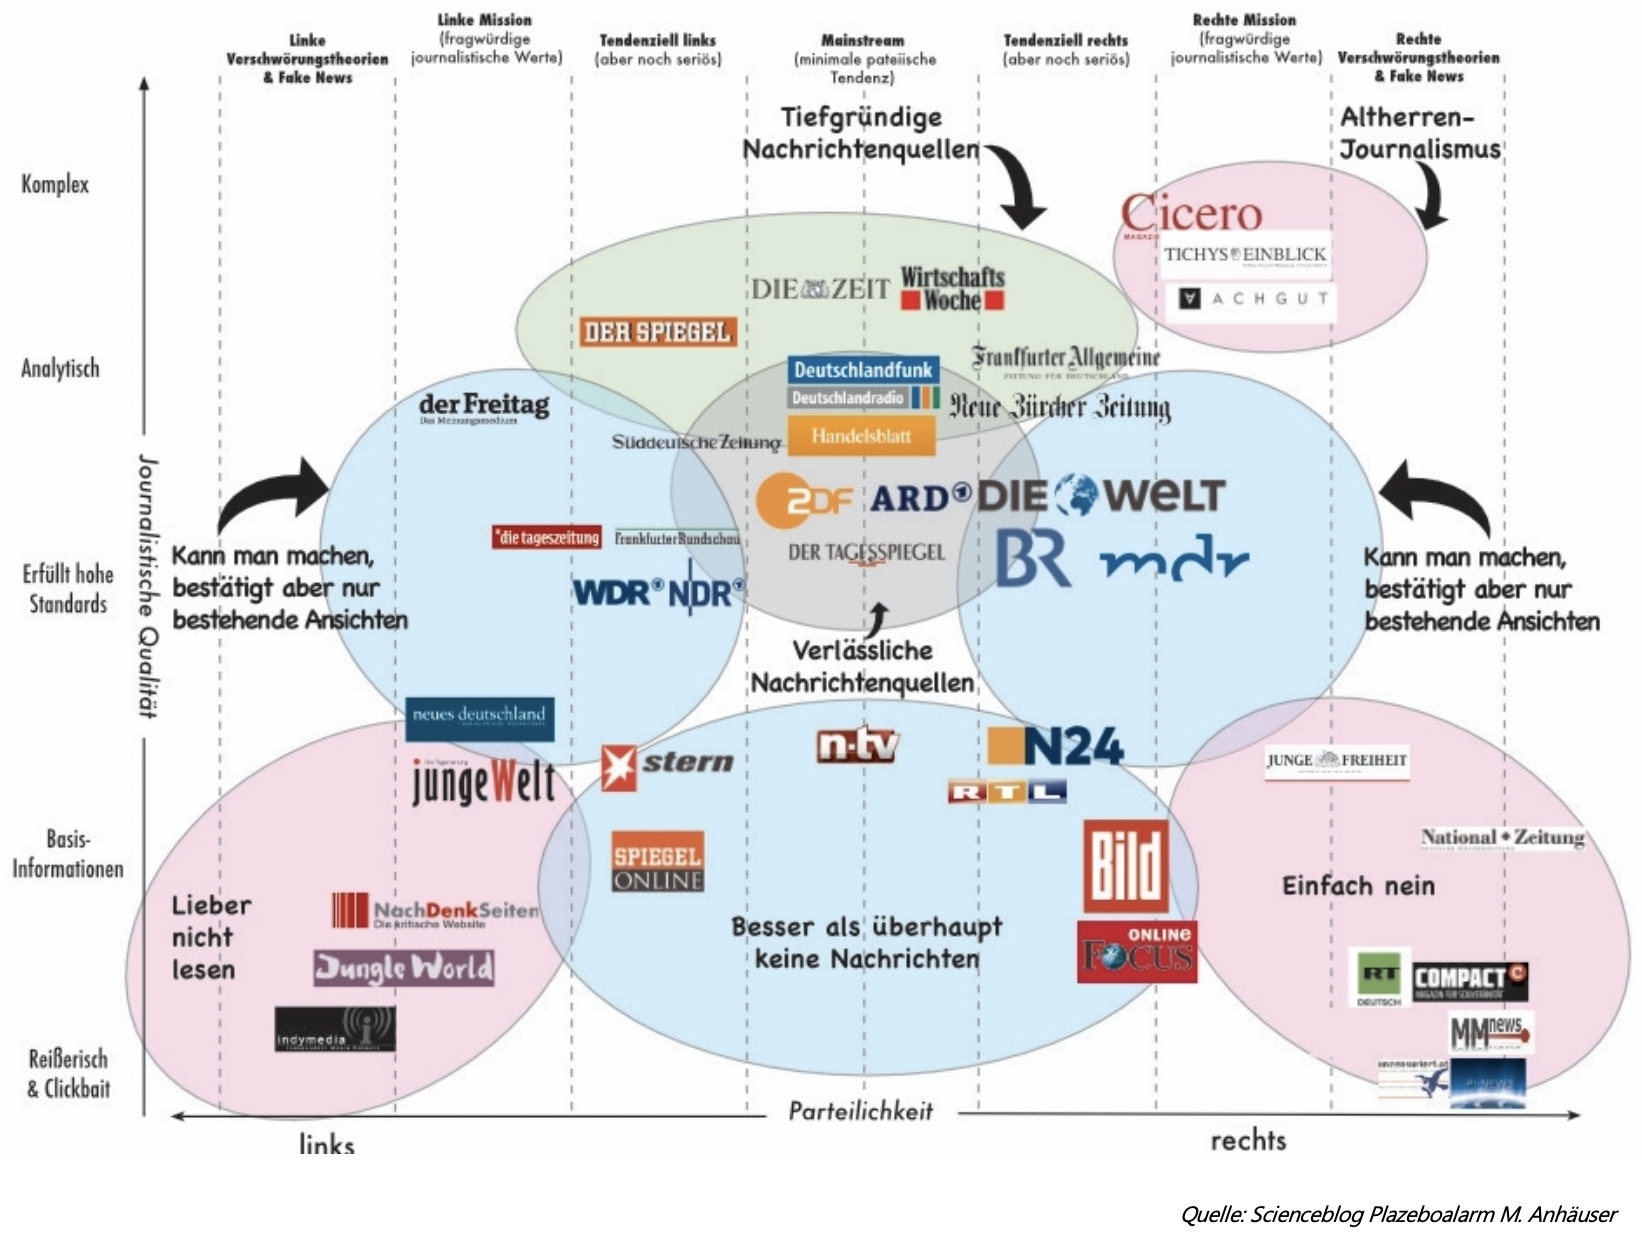
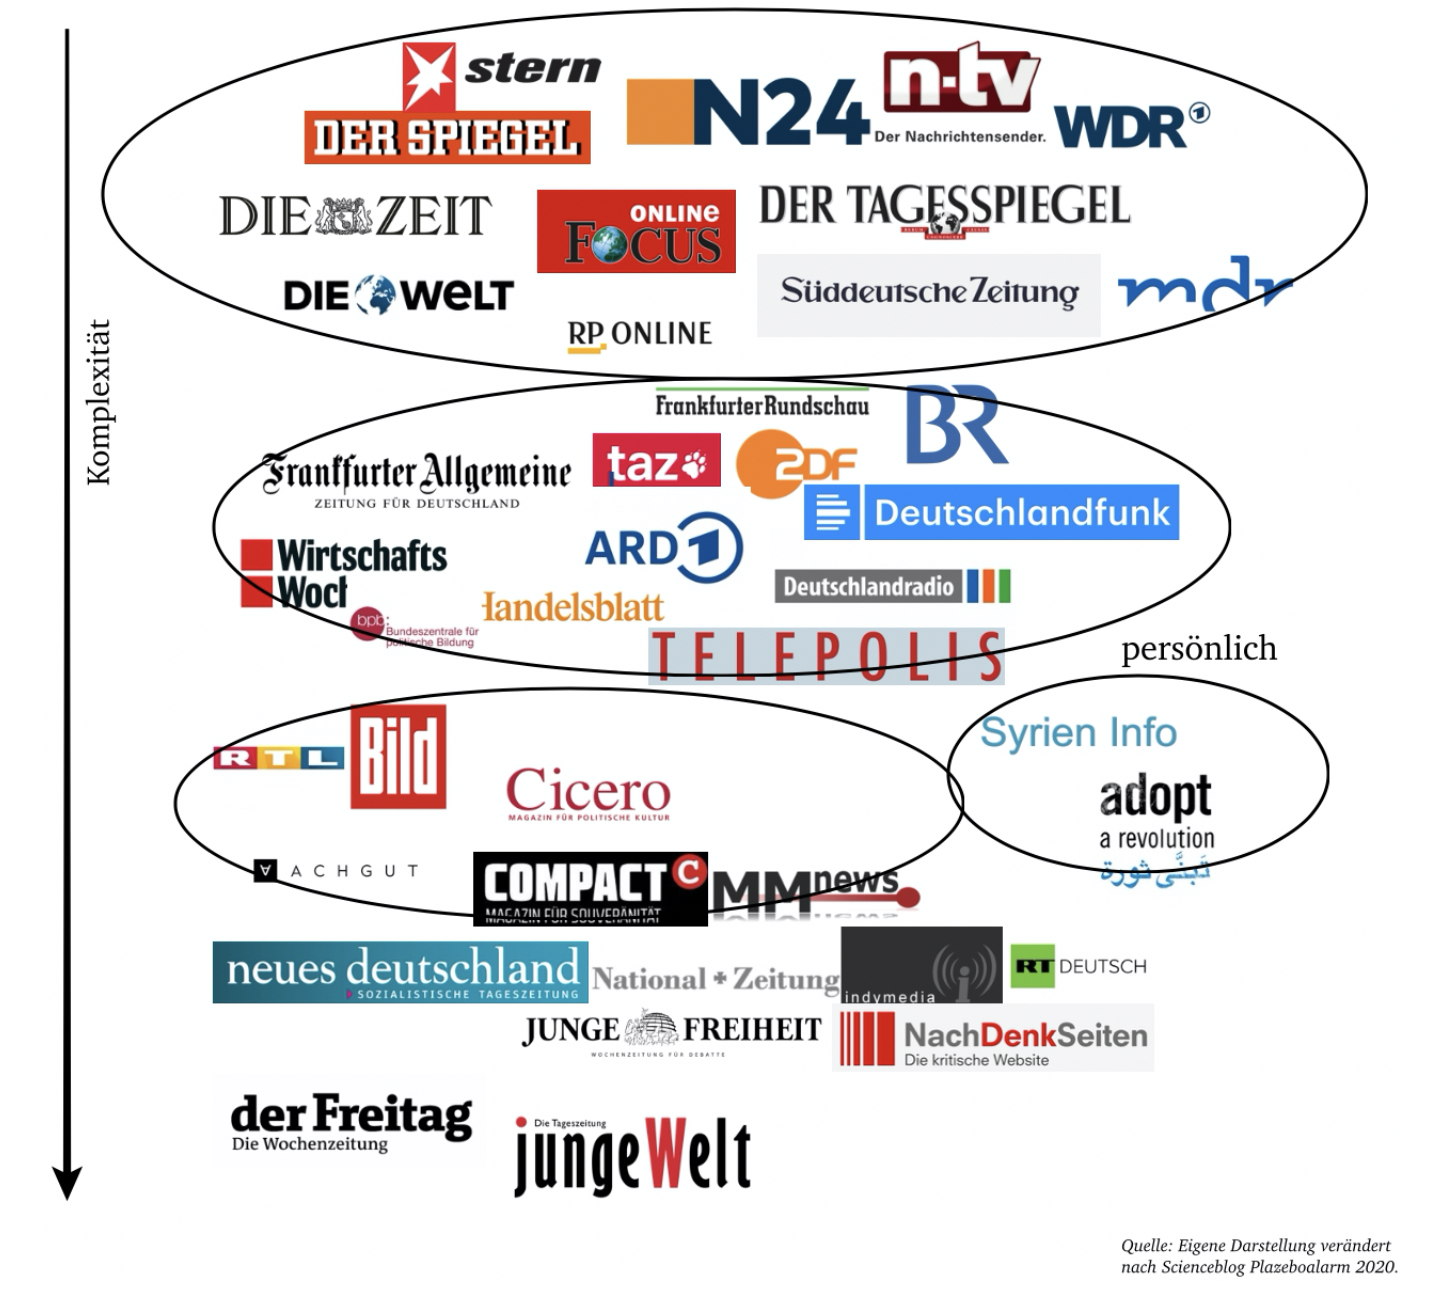
new commit

diff --git a/index.html b/index.html
@@ -115,9 +115,9 @@
             <div class="card-body">
               <h5 class="card-title">Map of Conflict Data</h5>
 
-              <p class="card-text">Die <i>Map of Conflict Data</i> visualisiert die Daten zu den Kriegshandlungen auf
+              <p class="card-text">Die <i>Map of Conflict Data</i> visualisiert die <br>Daten zu den Kriegshandlungen auf
                 syrischem
-                Territorium von 2012 bis 2018. Aus der Karte kann die Anzahl der Toten entnommen werden.
+                Territorium von 2011 bis 2018. Aus der Karte kann die Anzahl der Toten entnommen werden.
               </p>
               <div class="d-flex justify-content-between align-items-center">
                 <div class="btn-group">
@@ -140,7 +140,7 @@
               <h5 class="card-title">Map of Migration Density</h5>
 
               <p class="card-text">Die <i>Map of Migration Density</i> visualisiert die Daten zu den aufgenommenen
-                Flüchtlingen je ... Einwohner für jedes Land.</p>
+                Flüchtlingen je 10000 Einwohner für EU- und EFTA-Staaten sowie den Anrainerstaaten von 2011 bis 2018.</p>
               <div class="d-flex justify-content-between align-items-center">
                 <div class="btn-group">
                   <a href="../Slider/slider.html"><button type="button"
@@ -728,7 +728,7 @@
 
   <div class="site-section">
     <div class="container">
-      <h2 id="daten" tabindex='-1' class="mb-4">Recherche von Geodaten und statistischen Daten </h2>
+      <h2 id="daten" tabindex='-1' class="mb-4">Recherche von Geodaten und statistischen Daten</h2>
       <div class="row">
 
         <div class="col-10">
@@ -922,56 +922,42 @@
 
 
 
-      <div class="row">
+      <div>
 
-        <div class="col-5">
+     
 
 
 
           <h4>Worum geht es in der Analyse?</h4>
-          <p align="justify">
-            Mittels quantitativer Inhaltsanalyse der Artikel zu den Themen syrischer Bürgerkrieg und die damit verbundene Flüchtlingsbewegung nach Deutschland
-            wurden Berichterstattungsintensität, Anlässe, Akteure, Inhalte, Themen und Wertungen erfasst. Dies erlaubt Aussagen über deren Vielfalt, Ausgewogenheit, Neutralität und Tiefe. 
-            Es wurden journalistische Artikel in der deutschen Tagesberichterstattung und Posts in politischen Blogs ausgewertet. Die Auswertung beschränkt sich allein auf frei zugänglichen Onlineportalen, da zum Zeitpunkt der Studie der Beginn des Bürgerkriegs bereits mehrere Jahre zurückliegt und Onlinemedien es ermöglichen auf Archive zuzugreifen. Die Abbildung .. gibt einen Überblick über die erfassten Nachrichtendienste. Die Auswahl erfolgte bewusst anhand der Positionierung im politischen Rechts-Links-Spektrum und der Vorgabe, dass Boulevardzeitung, Qualitätszeitungen und Allgemeinzeitungen vertreten sein sollten, um unterschiedliche Medientypen abzudecken.
-            
-
-          </p>
-        </div>
-
-        <div class="col-7">
-          <img src="images/img_5.jpg" class="mx-auto d-block" style="width:800px; height:600px">
 
 
+<img src="images/img_5.jpg" class="mx-auto d-block" style="width:600px; height:600px" align=right><p align="justify">
+  Mittels quantitativer Inhaltsanalyse der Artikel zu den Themen syrischer Bürgerkrieg und die damit verbundene Flüchtlingsbewegung nach Deutschland
 
-        </div>
+wurden Berichterstattungsintensität, Anlässe, Akteure, Inhalte, Themen und Wertungen erfasst. Dies erlaubt Aussagen über deren Vielfalt, Ausgewogenheit, Neutralität und Tiefe. 
+Es wurden journalistische Artikel in der deutschen Tagesberichterstattung und Posts in politischen Blogs ausgewertet. Die Chronik wurde durchgearbeitet und Artikel zu jedem Ereignis recherchiert.
+Die Auswertung beschränkt sich allein auf frei zugänglichen Onlineportalen, da zum Zeitpunkt der Studie der Beginn des Bürgerkriegs bereits mehrere Jahre zurückliegt und Onlinemedien es ermöglichen auf Archive zuzugreifen. Die Abbildung .. gibt einen Überblick über die erfassten Nachrichtendienste und ordnet sie anhand der Komplexität in der Berichterstattung. Dabei wurde sich an die Abbildung vom Scienceblog orientiert. Die Auswahl erfolgte bewusst anhand der Positionierung im politischen Rechts-Links-Spektrum und der Vorgabe, dass Boulevardzeitung, Qualitätszeitungen und Allgemeinzeitungen vertreten sein sollten, um unterschiedliche Medientypen abzudecken.
+Die Nachrichtendienste, die nicht eingekreist sind, gehören zu den Nachrichtenquellen, die weniger geeignet sind, da sie keine neutrale politische Haltung einnehmen.
+Die Quellenanzahl hing von den Rechercheergebnissen ab und ob der Zugang zu den Artikeln kostenfrei ist. Es ist schwierig genau zu ermitteln wie viele Quellen repräsentativ für die gesamte Medienlandschaft notwendig sind. Nicht alle Nachrichtensender berichten gleichermaßen über die Ereignisse und können daher nicht gleichermaßen miteinbezogen werden. Umso schwieriger war es, genügend verschiedene Artikel zu einem Ereignis zu finden. Die bekanntesten Nachrichtenquellen erreichen eine höhere Lesergemeinschaft als die weniger bekannten persönlichen Blogs.
+
+  
+
+</p>
+
+
+
+
+    
+
+
       </div>
 
       <h4>Einschätzung</h4>
-      <p align="justify">Die Zahl der Toten, die in den Aufständen ums Leben kamen, liegen Berichten zufolge
-        zwischen 16 bis 23. Größere Abweichungen kommen bei der Berichterstattung zu den Ausmaßen der
-        Giftgasattacken vor. Auch zum Verursacher gibt es unterschiedliche Meinungen.
-        Dabei werfen sich die Rebellen und die Regierungsmitglieder immer wieder gegenseitig den Einsatz von
-        chemischen Waffen vor. Zum Beispiel berichtet die deutsche Wochenzeitung „Junge Freiheit“ davon, dass
-        Russland den Rebellen den Chemiewaffeneinsatz vorwirft. Der politische Newsblog „achgut.com“ berichtet
-        davon, dass die Kampfstoffe vom Regime stammen. Tendenziell wurde häufiger Assad und sein Regime in den
-        Medien für die Sarin- und Chlorgasattacken verantwortlich zu sein. <br>
-
-        Die deutsche Berichterstattung scheint im Syrienkonflikt zunehmend in Kritik zu stehen. Sie wirkt
-        beim Auswerten der Artikel teilweise sehr einseitig und vermittelt ein negatives Bild über den
-        syrischen Machthaber Baschar al-Assad und sein Regime. Ein negatives Bild wird damit auch
-        automatisch auf seinen Verbündeten Russland geworfen, da dieser das Regime unterstützt.
-        Es ist eine klare Tendenz zu erkennen, dass die Medien dem syrischen Präsidenten viel Kritik
-        entgegenbringen. Dies bewirkt den Anschein, dass die Berichterstattung teilweise sehr einseitig verläuft.
-        Es sind zumeist AktivistenInnen und Oppositionelle, die befragt werden.
-        Nur wenige Nachrichtenquellen wie die deutsche Wirtschaftszeitschrift „Wirtschaftswoche“, geben
-        Statements von der syrischen Regierung ab. <br>
-        Zum Thema syrischer Flüchtlingsbewegung hinterlassen die deutschen Medien ein Bild von zerschossenen
-        Häusern, Bomben und Verletzten. Nicht selten wird von betroffenen Kindern und Einzelschicksalen berichtet.
-        Der UN-Flüchtlingshochkommissar Filippo Grandi gehört zu den vielen, die den Konflikt als „größte humanitäre
-        Krise unserer Zeit“ sehen. Die Flüchtlingszahlen aus den Nachrichtenquellen unterscheiden sich nicht
-        großartig von der Statistik der UNHCR.
-        Die Qualität der Berichterstattung variiert untereinander und macht sich bereits beim Titel des Artikels
-        deutlich.
+      <p align="justify">Die Zahl der Toten, die in den Aufständen ums Leben kamen, weichen Berichten zufolge nicht groß voneinander ab. Es zeigt sich, dass die Berichterstattung zu den Ausmaßen und Verursachern der Giftgasattacken sehr stark regierungsgeprägt, mehrheitlich meinungsorientiert und wertend ist. Dabei werfen sich die Rebellen und die Regierungsmitglieder immer wieder gegenseitig den Einsatz von chemischen Waffen vor. 
+        Es werden erheblich häufiger Aussagen dazu gemacht, dass das Regime für die Sarin- und Chlorgasattacken verantwortlich ist. Insgesamt wird ein negatives Bild über den syrischen Machthaber Baschar al-Assad vermittelt. Dies bewirkt den Anschein, dass die Berichterstattung teilweise sehr einseitig verläuft, dadurch, dass häufig Oppositionelle befragt werden.
+        Die syrische Flüchtlingsbewegung wird in den deutschen Medien von zerstörten Stadtteilen, Verletzten und Bomben begleitet. Auch von Einzelschicksalen und betroffenen Kindern und Familien auf ihrem weiten Weg wird berichtet.
+        Die Flüchtlingszahlen aus den Nachrichtenquellen unterscheiden sich in geringem Maße von der Statistik der UNHCR. Jedoch werden in den Artikeln häufig keine Quellen genannt von wo die Zahlen bezogen werden. Die BILD hat Ende 2017 von 10000 Flüchtlingen gesprochen, während in der UNHCR-Statistik von 11706 Flüchtlingen die Rede ist. Auch bei der Gesamtzahl der Flüchtlinge gibt es Unterschiede. Die BILD berichtet von 11 Mio. Flüchtlingen. Das sind 2 Mio. weniger als die UNHCR-Statistik aussagt. Nicht in allen Fällen wurden konkrete Zahlen genannt. Die Süddeutsche Zeitung hat Anfang 2016 in einem Artikel von Hunderttausenden zu erwartenden Asylanträgen berichtet. Tatsächlich waren es im Jahr 2016 266250 Neuanträge. Die Pauschalisierungen ziehen sich durch die gesamte Berichterstattung hindurch.
+        
 
       </p>
 
@@ -1017,14 +1003,6 @@
           
         </div>
       </div>
-
-
-
-
-
-
-
-
 
       <h2>Worum geht es im Projekt?</h2>
       <p align="justify">
